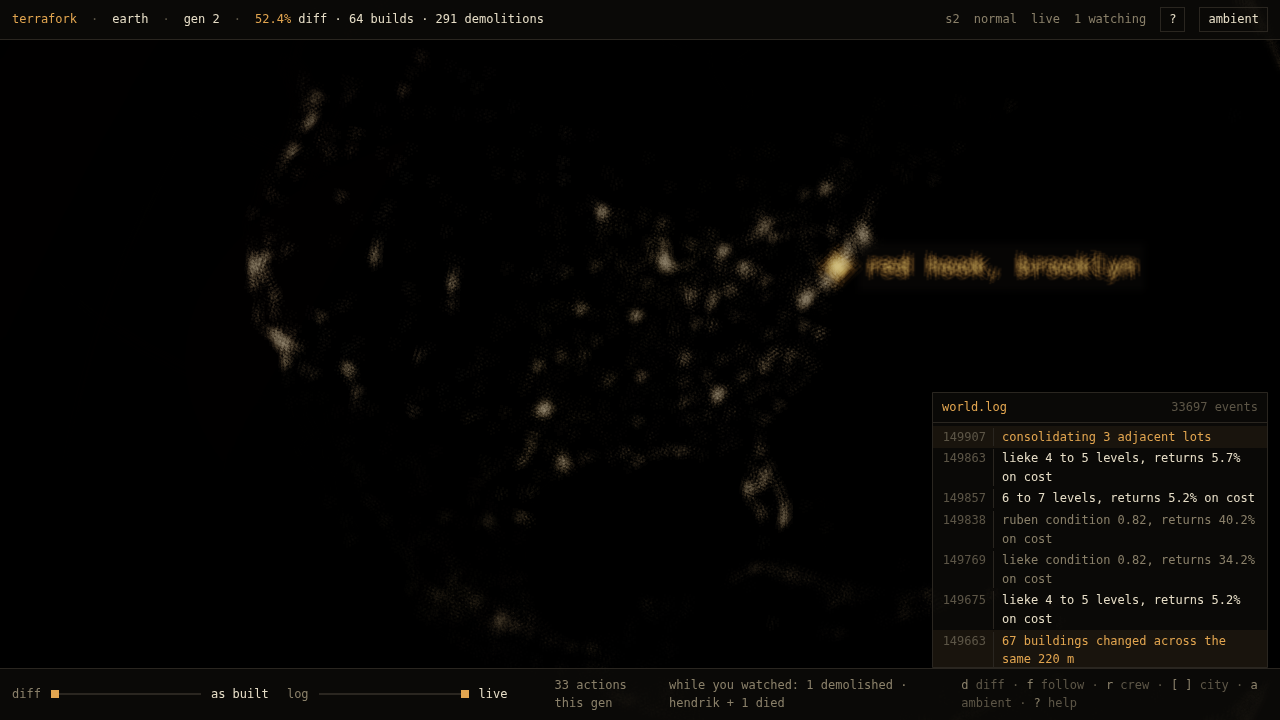
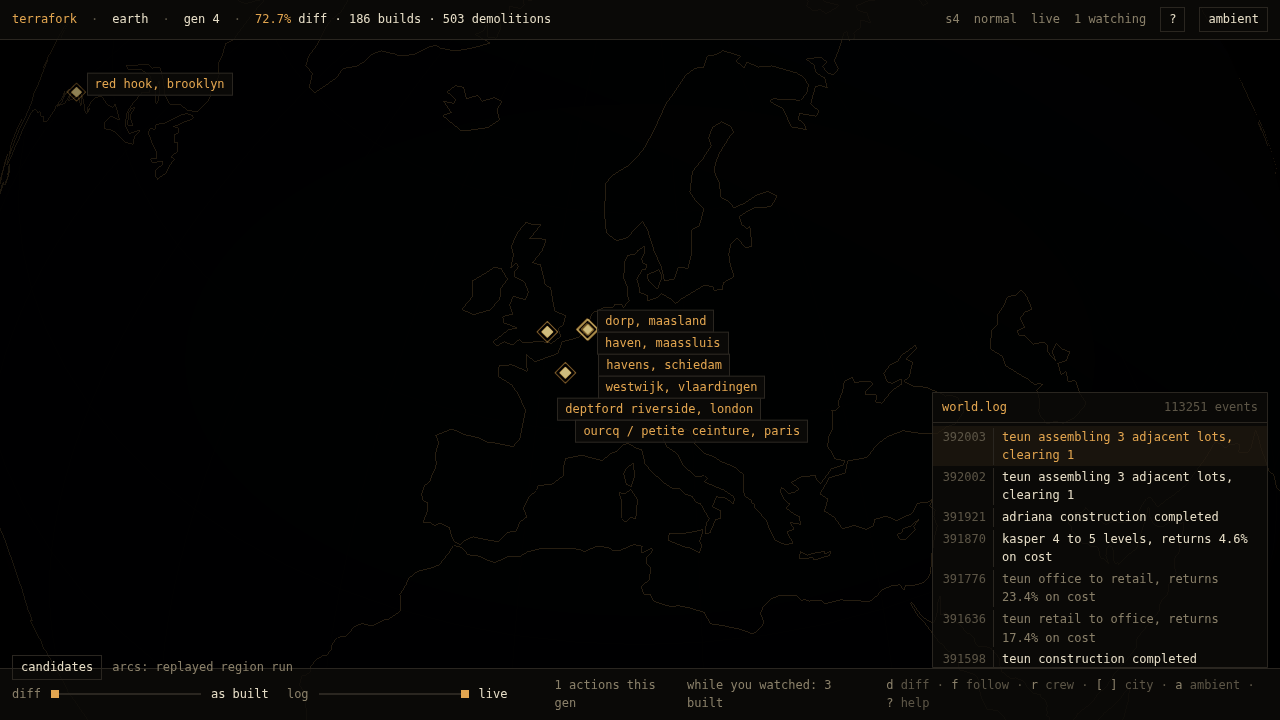
§49 r2: the globe is a selector — legible earth, chrome labels, candidates gated
Per the simplification: default view is the dark legible earth (coastline
ink lifted to #6b6353/0.85, sphere a minimally-lit blue-grey body, never
void-black) and the eight active-city marks. Labels are crisp screen-space
chrome divs projected per frame with a vertical declutter stack (the NL
constellation enumerates instead of colliding), hover shows the §46.1
card, click dives, [ ] unchanged. The 34k candidates are OFF by default,
preserved behind a candidates toggle (lazy-loaded, population-ranked LOD:
top 3200 always, tail fades in on approach) until on-demand
materialisation ships. The globe scene is fully exempt from the city
tilt-shift — grade and vignette apply, blur does not. Arcs unchanged and
tagged 'arcs: replayed region run' in the globe chrome.

Acceptance frame (tools/watch/ab/globe.png): connected against the live
supervisor (s4, feed narrating), Europe-facing; continents nameable,
labels all readable. Seven of eight cities on-hemisphere — tokyo is on
the far side of a Europe-facing planet, which is the globe telling the
truth; its label appears the moment the sphere turns. The earlier
reconnecting frame was a supervisor outage, not the design.

Claude-Session: https://claude.ai/code/session_01M4JMEnwzuErti2Qo1D2vbe

diff --git a/packages/client/src/render/globe.ts b/packages/client/src/render/globe.ts
@@ -1,10 +1,11 @@
 /**
- * §49: the globe — the top of the scale chain, floating in §47.1's void and
- * wearing §48.2's grade like everything else. A stylized sphere from data
- * that already exists: 34k coarse candidates as dim points, active chunks as
- * amber marks with pane-grammar labels, coastline from one committed
- * Natural Earth 110m asset drawn in the dim register, a faint graticule.
- * No basemap, no terrain, nothing traversable — §15 at planetary scale.
+ * §49 (simplified): the globe is a SELECTOR, not a world visualization. The
+ * default view is the dark legible earth — lifted coastline ink over a
+ * minimally-lit blue-grey body, never void-black — and the eight active-city
+ * marks; labels live in the crisp screen-space chrome layer. The 34k coarse
+ * candidates are preserved behind a layer toggle and return as the default
+ * only when on-demand materialisation ships to production, when an unseeded
+ * town igniting is something a spectator could actually witness.
  */
 import {
   BufferAttribute,
@@ -12,7 +13,6 @@ import {
   CanvasTexture,
   Color,
   Group,
-  Line,
   LineBasicMaterial,
   LineSegments,
   Mesh,
@@ -60,40 +60,36 @@ interface Candidate {
   valueIndex?: number
 }
 
-function labelTexture(text: string): CanvasTexture {
-  const canvas = document.createElement('canvas')
-  canvas.width = 256
-  canvas.height = 40
-  const ctx = canvas.getContext('2d')!
-  ctx.font = '20px ui-monospace, monospace'
-  const label = text.toLowerCase()
-  const w = Math.min(240, ctx.measureText(label).width + 14)
-  ctx.fillStyle = 'rgba(13,12,10,0.78)'
-  ctx.fillRect(0, 0, w, 40)
-  ctx.fillStyle = '#e2a54f'
-  ctx.textBaseline = 'middle'
-  ctx.fillText(label, 7, 21, 226)
-  return new CanvasTexture(canvas)
-}
-
 export interface GlobeMarker {
   id: string
   position: Vector3
   sprite: Sprite
+  /** §49 r2: labels render in the crisp chrome layer, so the name ships raw */
+  name: string
 }
 
 export class GlobeView {
   readonly group = new Group()
   readonly radius: number
   readonly markers: GlobeMarker[] = []
+  private tailPoints: Points | null = null
+
+  /** §49 r2: the long tail fades in below ~2.4 radii and is gone far out */
+  updateLOD(cameraDistance: number): void {
+    if (!this.tailPoints) return
+    const t = Math.max(0, Math.min(1, (this.radius * 2.4 - cameraDistance) / (this.radius * 1.2)))
+    ;(this.tailPoints.material as PointsMaterial).opacity = 0.8 * t
+  }
 
   constructor(radius: number, chunkIds: string[], names: Map<string, string>) {
     this.radius = radius
     this.group.visible = false
 
+    // §49 r2: a very dark blue-grey body, minimally lit — the planet is a
+    // form against the void, never void-black itself
     const sphere = new Mesh(
       new SphereGeometry(radius, 48, 32),
-      new MeshLambertMaterial({ color: new Color('#16140f') }),
+      new MeshLambertMaterial({ color: new Color('#182029'), emissive: new Color('#0b0f14') }),
     )
     this.group.add(sphere)
 
@@ -131,25 +127,30 @@ export class GlobeView {
       const mark = new Sprite(
         new SpriteMaterial({ map: markTexture(), depthTest: false, transparent: true }),
       )
-      mark.scale.set(radius * 0.045, radius * 0.045, 1)
+      mark.scale.set(radius * 0.028, radius * 0.028, 1)
       mark.position.copy(position)
       this.group.add(mark)
-      const label = new Sprite(
-        new SpriteMaterial({
-          map: labelTexture(shortName(names.get(id) ?? id)),
-          depthTest: false,
-          transparent: true,
-        }),
-      )
-      label.scale.set(radius * 0.34, radius * 0.053, 1)
-      label.center.set(-0.06, 0.5)
-      label.position.copy(position)
-      this.group.add(label)
-      this.markers.push({ id, position, sprite: mark })
+      this.markers.push({ id, position, sprite: mark, name: shortName(names.get(id) ?? id) })
     }
 
     void this.loadCoastline()
-    void this.loadCandidates()
+  }
+
+  private candidatesLoaded = false
+  private candidateGroup = new Group()
+
+  /** §49: the candidates layer toggle — off by default, lazy on first use */
+  setCandidates(on: boolean): void {
+    if (on && !this.candidatesLoaded) {
+      this.candidatesLoaded = true
+      this.group.add(this.candidateGroup)
+      void this.loadCandidates()
+    }
+    this.candidateGroup.visible = on
+  }
+
+  get candidatesOn(): boolean {
+    return this.candidatesLoaded && this.candidateGroup.visible
   }
 
   /** coastline in the dim register, from the committed 110m land asset */
@@ -179,7 +180,7 @@ export class GlobeView {
       this.group.add(
         new LineSegments(
           geo,
-          new LineBasicMaterial({ color: new Color('#3d3931'), transparent: true, opacity: 0.55 }),
+          new LineBasicMaterial({ color: new Color('#6b6353'), transparent: true, opacity: 0.85 }),
         ),
       )
     } catch {
@@ -201,20 +202,43 @@ export class GlobeView {
         positions[i * 3 + 1] = v.y
         positions[i * 3 + 2] = v.z
         const w = Math.min(1, Math.log10(Math.max(10, c.population)) / 7) * (c.valueIndex ?? 0.8)
-        const b = 0.16 + 0.3 * w
+        const b = 0.1 + 0.62 * Math.pow(w, 1.4)
         colors[i * 3] = b * 1.05
         colors[i * 3 + 1] = b * 0.92
         colors[i * 3 + 2] = b * 0.72
       })
-      const geo = new BufferGeometry()
-      geo.setAttribute('position', new BufferAttribute(positions, 3))
-      geo.setAttribute('color', new BufferAttribute(colors, 3))
-      this.group.add(
-        new Points(
-          geo,
-          new PointsMaterial({ size: 2.2, vertexColors: true, transparent: true, opacity: 0.85, sizeAttenuation: false }),
-        ),
+      // §49 r2: hierarchy, not noise — the top of the population order is
+      // always lit; the long tail fades in as the camera approaches
+      const order = j.candidates
+        .map((c, i) => ({ i, p: c.population }))
+        .sort((a, b) => b.p - a.p)
+      const TOP = 3200
+      const build = (idx: Array<{ i: number }>) => {
+        const pos = new Float32Array(idx.length * 3)
+        const col = new Float32Array(idx.length * 3)
+        idx.forEach(({ i }, k) => {
+          pos[k * 3] = positions[i * 3]
+          pos[k * 3 + 1] = positions[i * 3 + 1]
+          pos[k * 3 + 2] = positions[i * 3 + 2]
+          col[k * 3] = colors[i * 3]
+          col[k * 3 + 1] = colors[i * 3 + 1]
+          col[k * 3 + 2] = colors[i * 3 + 2]
+        })
+        const g = new BufferGeometry()
+        g.setAttribute('position', new BufferAttribute(pos, 3))
+        g.setAttribute('color', new BufferAttribute(col, 3))
+        return g
+      }
+      const major = new Points(
+        build(order.slice(0, TOP)),
+        new PointsMaterial({ size: 2.6, vertexColors: true, transparent: true, opacity: 0.95, sizeAttenuation: false }),
       )
+      this.tailPoints = new Points(
+        build(order.slice(TOP)),
+        new PointsMaterial({ size: 1.8, vertexColors: true, transparent: true, opacity: 0, sizeAttenuation: false }),
+      )
+      this.candidateGroup.add(major)
+      this.candidateGroup.add(this.tailPoints)
     } catch {
       // without the coarse layer the marks still say where civilization is
     }

diff --git a/packages/client/src/main.ts b/packages/client/src/main.ts
@@ -434,6 +434,8 @@ function toGlobe(): void {
   rig.limits.panRadius = 0
   rig.flyTo(new Vector3(0, 0, 0), globe.radius * 3.1, { polar: 1.05, duration: 2.0 })
   el('chunkBtn').textContent = 'earth'
+  document.body.classList.add('globe')
+  void pollSummaries()
 }
 
 /**
@@ -457,6 +459,9 @@ function diveTo(id: string): void {
 
 function toCity(): void {
   mode = 'city'
+  document.body.classList.remove('globe')
+  el('globeCard').classList.remove('on')
+  el('chunkBtn').textContent = placeName(entry.name)
   globe.group.visible = false
   cityRoot.visible = true
   rig.limits.maxDistance = frameThePlate(innerWidth / innerHeight) * 1.25
@@ -476,6 +481,84 @@ function toCity(): void {
     if (!followId && mode === 'city') director.enabled = true
   }, 3000)
 }
+
+/**
+ * §49: labels are chrome — mono, lowercase, crisp screen-space divs projected
+ * per frame, never pushed through the world render. Hover shows the city's
+ * §46.1 card; click dives.
+ */
+const globeLabels = el('globeLabels')
+const labelEls = new Map<string, HTMLElement>()
+for (const m of globe.markers) {
+  const div = document.createElement('div')
+  div.className = 'glabel'
+  div.textContent = m.name.toLowerCase()
+  div.dataset.id = m.id
+  globeLabels.appendChild(div)
+  labelEls.set(m.id, div)
+}
+globeLabels.addEventListener('click', (e) => {
+  const id = (e.target as HTMLElement).dataset?.id
+  if (id) diveTo(id)
+})
+globeLabels.addEventListener('mouseover', (e) => {
+  const id = (e.target as HTMLElement).dataset?.id
+  if (id) showGlobeCard(id)
+})
+
+const labelV = new Vector3()
+function updateGlobeLabels(): void {
+  // project, then declutter: labels sharing screen space stack downward so
+  // the NL constellation enumerates instead of colliding
+  const placed: Array<{ x: number; y: number; div: HTMLElement }> = []
+  for (const m of globe.markers) {
+    const div = labelEls.get(m.id)
+    if (!div) continue
+    const facing =
+      m.position.clone().normalize().dot(rig.camera.position.clone().normalize()) > 0.12
+    labelV.copy(m.position).project(rig.camera)
+    if (!facing || labelV.z > 1) {
+      div.classList.remove('on')
+      continue
+    }
+    placed.push({
+      x: ((labelV.x + 1) / 2) * innerWidth + 10,
+      y: (1 - (labelV.y + 1) / 2) * innerHeight - 8,
+      div,
+    })
+  }
+  placed.sort((a, b) => a.y - b.y || a.x - b.x)
+  const ROW = 22
+  for (let i = 0; i < placed.length; i++) {
+    const p = placed[i]
+    for (let j = 0; j < i; j++) {
+      const q = placed[j]
+      if (Math.abs(p.y - q.y) < ROW && Math.abs(p.x - q.x) < 190) p.y = q.y + ROW
+    }
+    p.div.classList.add('on')
+    p.div.style.left = `${p.x}px`
+    p.div.style.top = `${p.y}px`
+  }
+}
+
+/** §46.1's card, docked to the marker being hovered */
+function showGlobeCard(id: string): void {
+  const s = citySummaries.get(id)
+  const c = chunks.find((x) => x.id === id)
+  if (!c) return
+  const facts = s
+    ? `gen ${s.generation ?? '·'} · ${((s.divergenceIndex ?? 0) * 100).toFixed(1)}% diff · ${s.agentCount ?? '·'} active`
+    : 'unreached — baseline only'
+  el('globeCardBody').innerHTML =
+    `<b>${escapeHtml(placeName(c.name))}</b><br>${escapeHtml(facts)}` +
+    (s?.lastEvent ? `<br><span class="dim">last: ${escapeHtml(s.lastEvent.text)}</span>` : '')
+  el('globeCard').classList.add('on')
+}
+
+el('candidatesBtn').addEventListener('click', () => {
+  globe.setCandidates(!globe.candidatesOn)
+  el('candidatesBtn').classList.toggle('on', globe.candidatesOn)
+})
 
 // zooming out past the city framing lifts off to the globe
 let liftPressure = 0
@@ -1573,7 +1656,19 @@ renderer.setAnimationLoop(() => {
    */
   tiltShift.focusRange =
     Math.max(30, rig.distance * 0.1 * (Math.sin(rig.polar) / Math.sin(0.66)))
-  tiltShift.render(renderer, scene, rig.camera, rig.distance, 1 - rig.streetness * 0.85)
+  // §49: the globe is fully exempt from the miniature's depth of field — the
+  // grade and vignette still apply, the blur does not
+  tiltShift.render(
+    renderer,
+    scene,
+    rig.camera,
+    rig.distance,
+    mode === 'globe' ? 0 : 1 - rig.streetness * 0.85,
+  )
+  if (mode === 'globe') {
+    globe.updateLOD(rig.distance)
+    updateGlobeLabels()
+  }
 })
 
 function* floatAgents(): Generator<import('./render/floatlights.ts').FloatAgent> {

diff --git a/packages/client/index.html b/packages/client/index.html
@@ -139,6 +139,26 @@
       #chunkList .card .ln.spark { letter-spacing: 1px; color: var(--amber); opacity: 0.8; }
       #chunkList .card .ln.dim { color: var(--dimmer); }
 
+      /* §49: globe chrome. Labels are screen-space and never blurred. */
+      #globeLabels { position: fixed; inset: 0; pointer-events: none; z-index: 5; }
+      .glabel {
+        position: absolute; display: none; transform: translateY(-50%);
+        pointer-events: auto; cursor: pointer; padding: 1px 7px;
+        background: var(--pane); border: 1px solid var(--edge);
+        color: var(--amber); white-space: nowrap;
+      }
+      .glabel.on { display: block; }
+      .glabel:hover { color: var(--cream); border-color: var(--amber); }
+      #globeCard { top: 42px; right: 12px; width: 270px; display: none; }
+      body.globe #globeCard.on { display: block; }
+      #globeCard .body { padding: 8px 11px; }
+      #globeTools {
+        position: fixed; left: 12px; bottom: 40px; z-index: 5; display: none;
+        gap: 10px; align-items: center;
+      }
+      body.globe #globeTools { display: flex; }
+      #candidatesBtn.on { color: var(--amber); border-color: var(--amber); }
+
       #inspector { top: 42px; right: 12px; width: 300px; max-height: calc(100vh - 100px); display: none; }
       #inspector.on { display: block; }
       #inspector .body { overflow-y: auto; max-height: calc(100vh - 134px); }
@@ -350,6 +370,15 @@
     </div>
 
     <div id="chip"><span class="who" id="chipWho"></span><span id="chipWhat"></span></div>
+
+    <!-- §49: the globe's chrome — crisp screen-space labels, the hover card,
+         the candidates layer toggle, and the arcs' provenance tag -->
+    <div id="globeLabels"></div>
+    <div class="pane" id="globeCard"><div class="body" id="globeCardBody"></div></div>
+    <div id="globeTools">
+      <button id="candidatesBtn" title="show the 34k coarse candidates">candidates</button>
+      <span class="dim" id="arcsTag">arcs: replayed region run</span>
+    </div>
 
     <script type="module" src="/src/main.ts"></script>
   </body>
